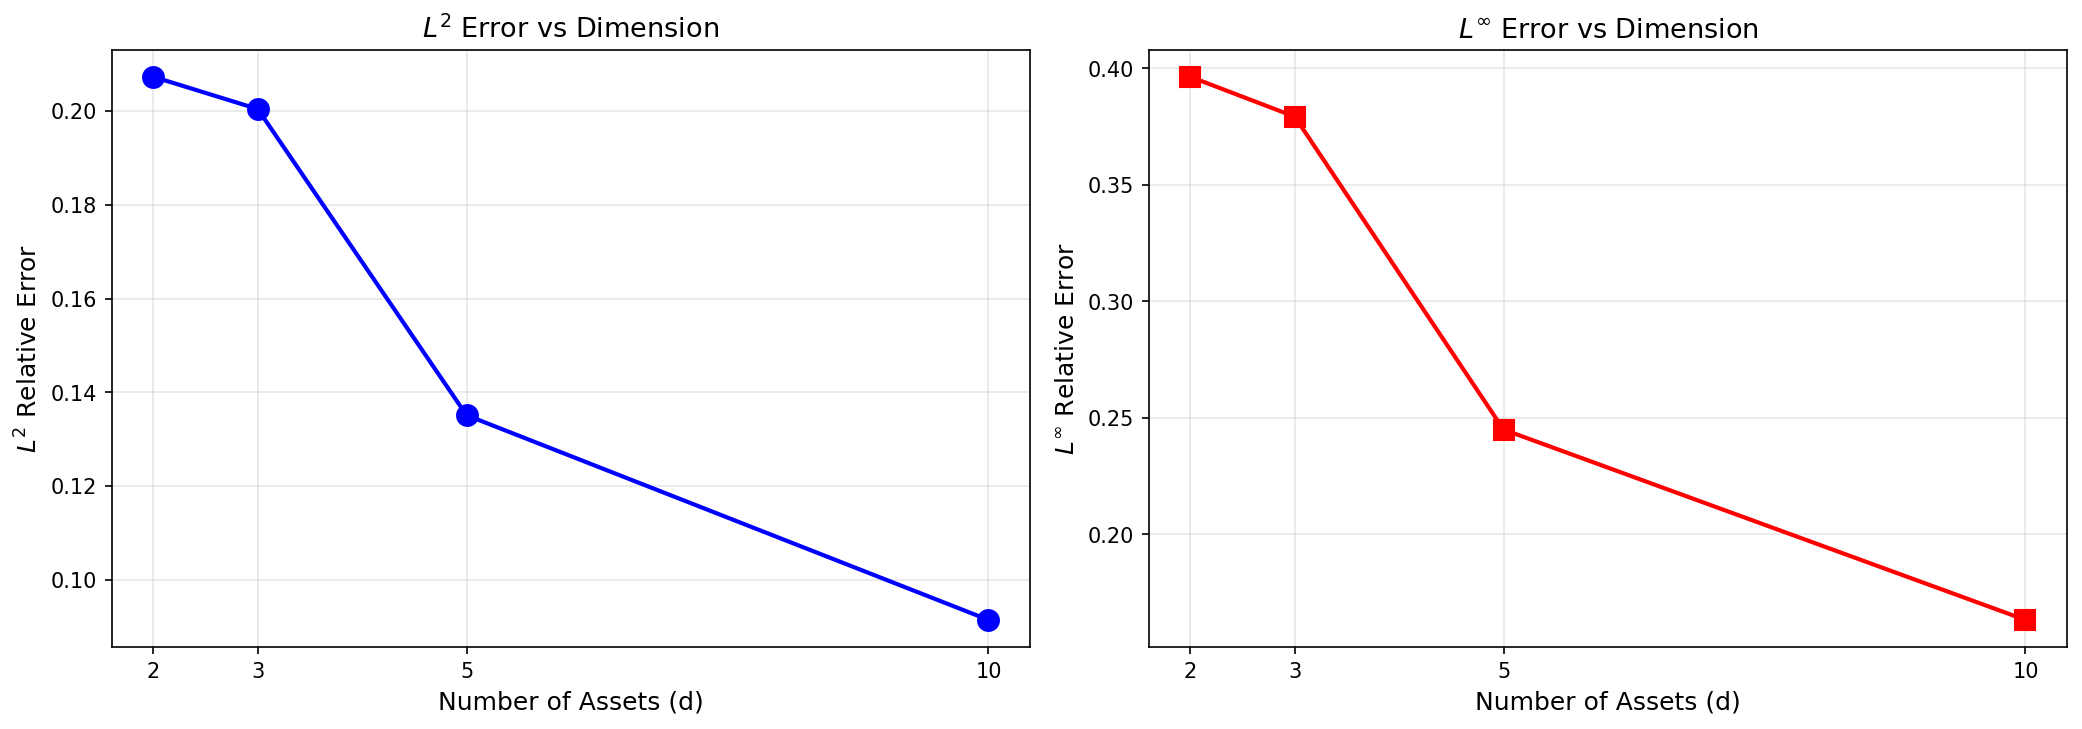
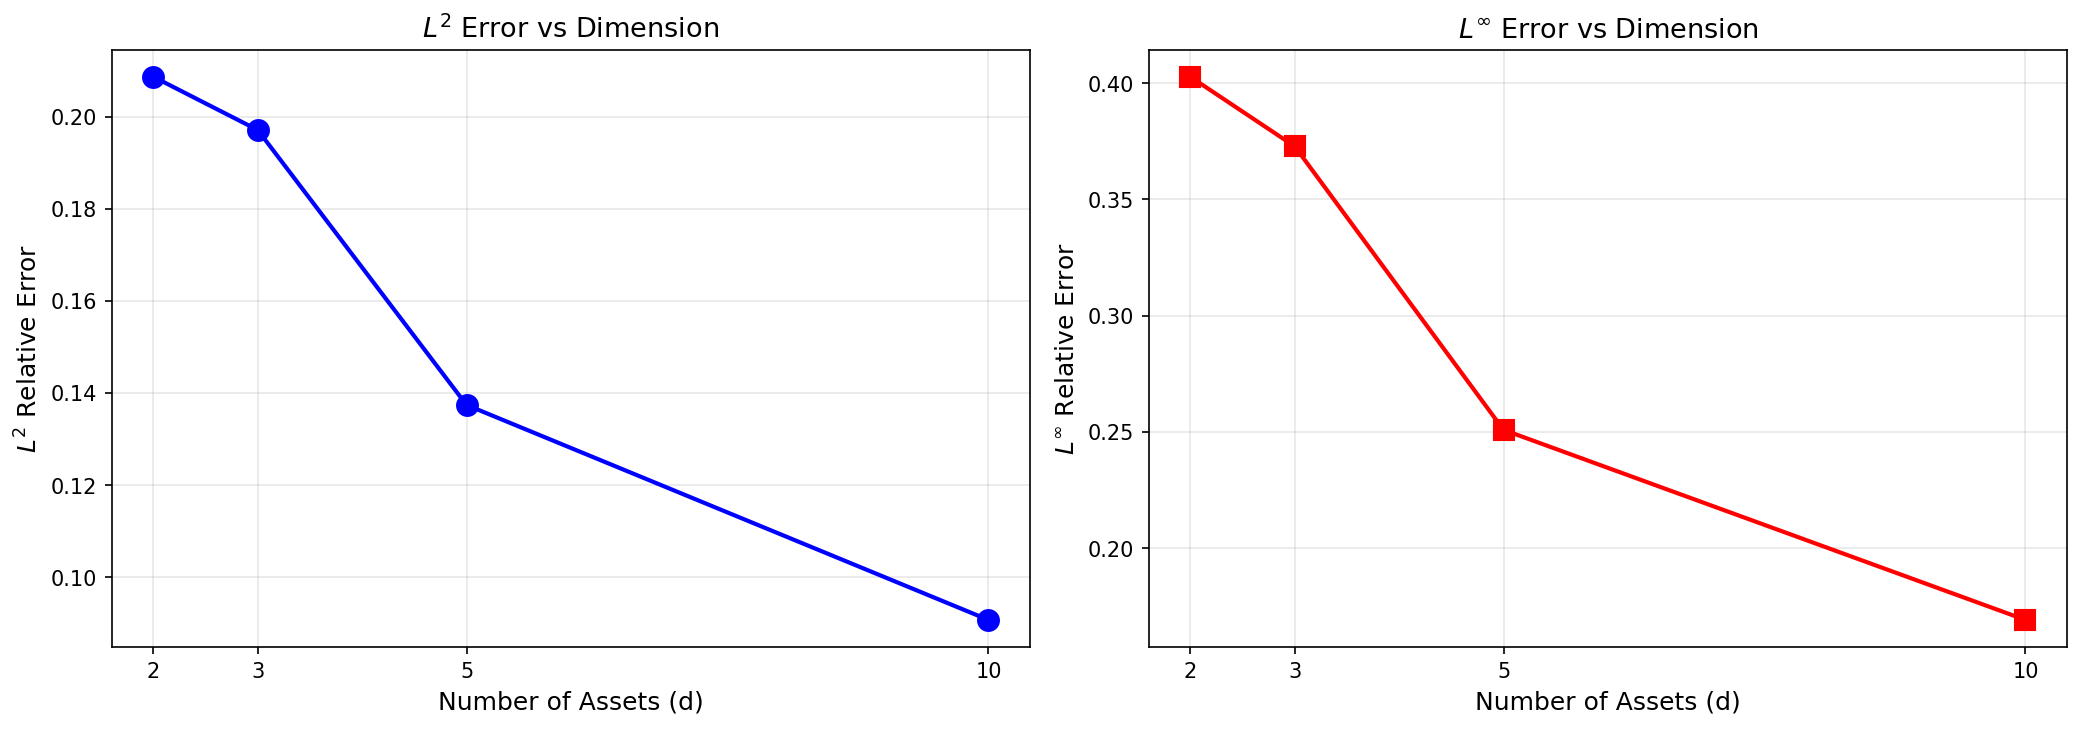
Update Results

diff --git a/Comparison_Between_Methods/results/tables/exp3_dimension_scaling.md b/Comparison_Between_Methods/results/tables/exp3_dimension_scaling.md
@@ -4,10 +4,10 @@
 
 | d | MLMC Time (s) | Laplace Time (s) | L2 Error | L∞ Error |
 |---|---------------|------------------|----------|----------|
-| 2 | 0.83 | 0.59 | 0.2073 | 0.3964 |
-| 3 | 0.87 | 1.25 | 0.2004 | 0.3793 |
-| 5 | 0.94 | 2.91 | 0.1351 | 0.2450 |
-| 10 | 1.14 | 9.59 | 0.0914 | 0.1633 |
+| 2 | 0.44 | 0.72 | 0.2087 | 0.4027 |
+| 3 | 0.45 | 1.26 | 0.1972 | 0.3728 |
+| 5 | 0.49 | 2.88 | 0.1374 | 0.2509 |
+| 10 | 0.60 | 9.59 | 0.0907 | 0.1692 |
 
 ## Key Observations
 
